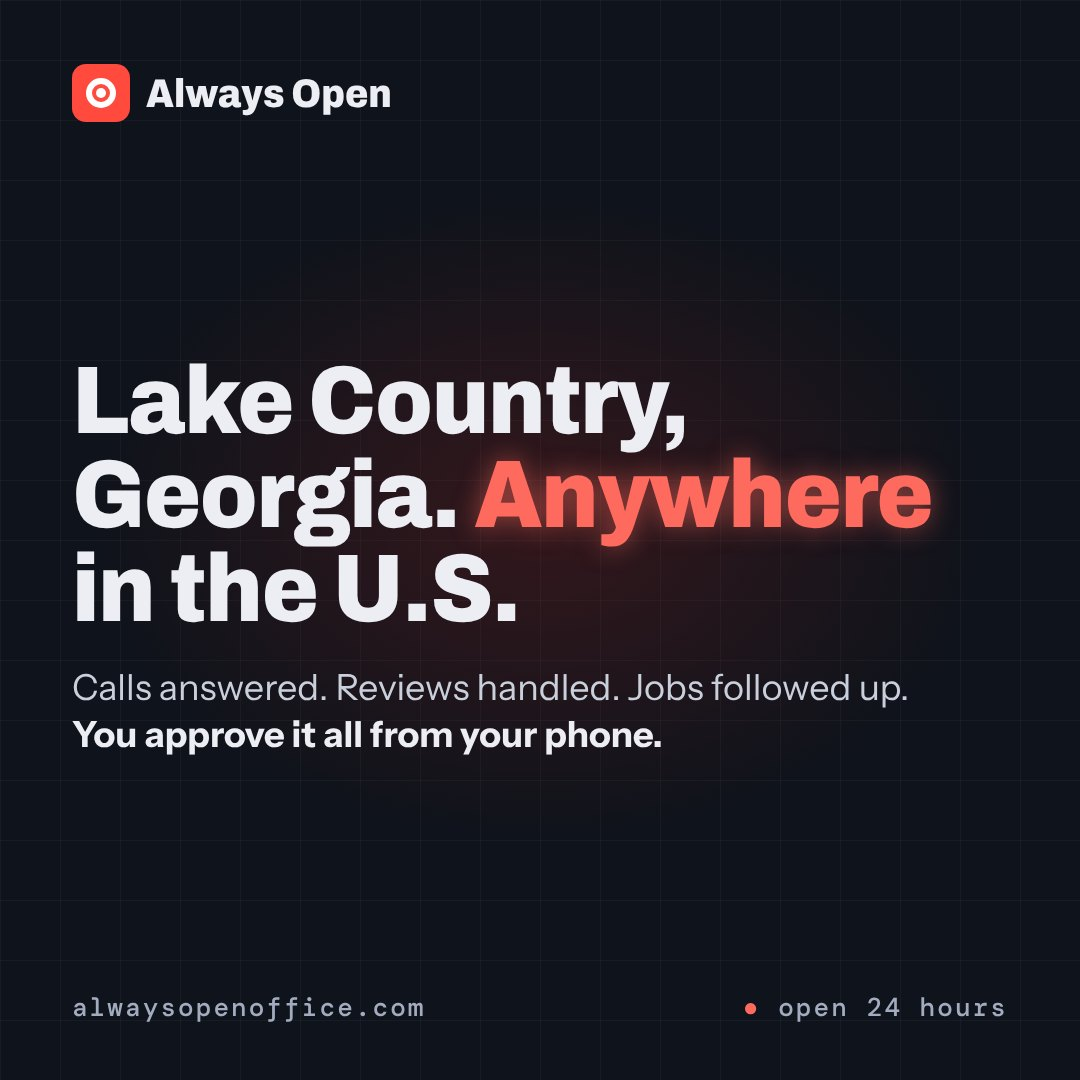
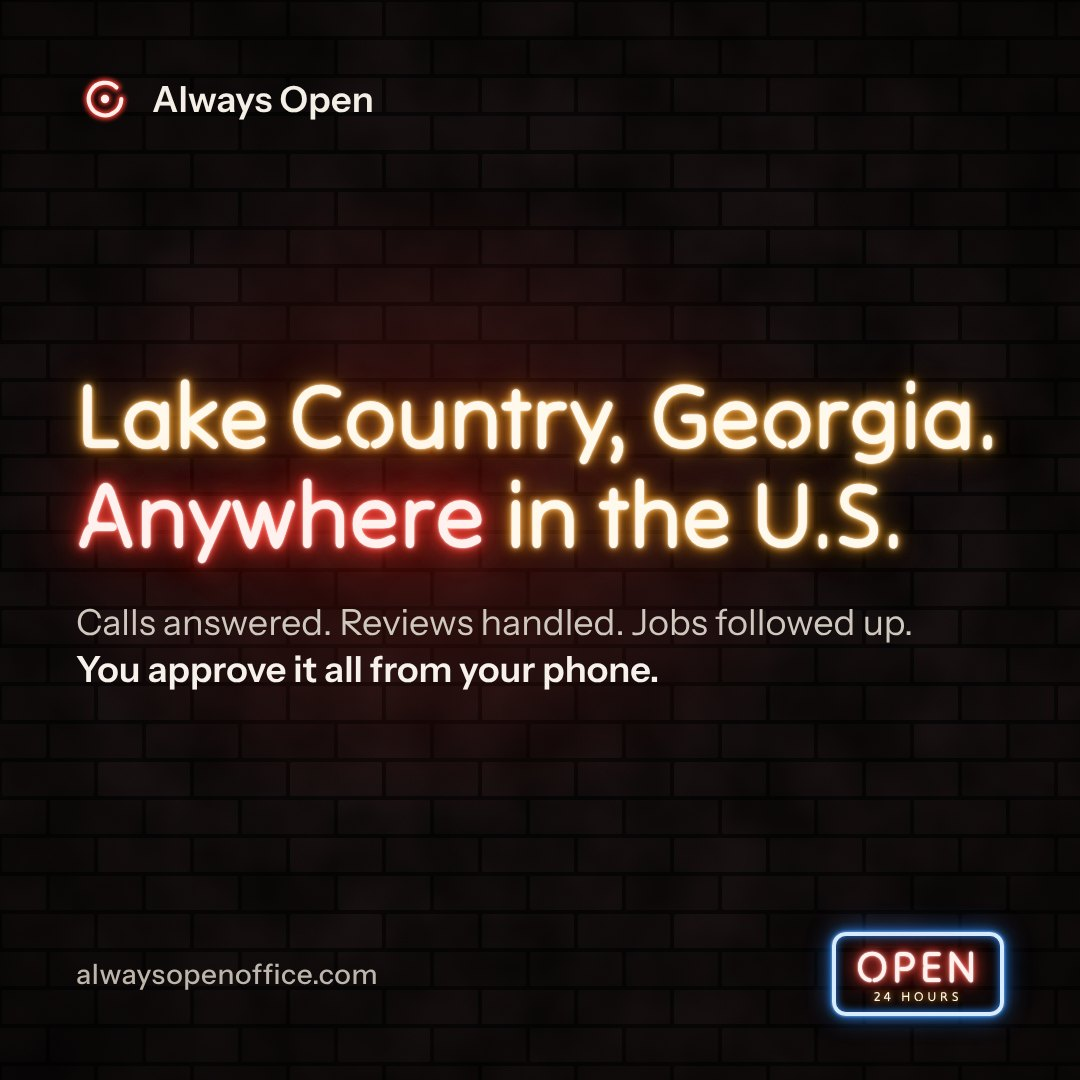
Own-Page posts cover every feature nobody else has, on neon-sign cards
- Six new topics in the Mon/Wed/Fri rotation: the three-day check-in, Fill my week, Storm Desk, hand-offs
  between businesses, call-backs at a set time, and what AI assistants say about you, each with an accurate
  fallback caption. The caption instructions now name these features too.
- All twelve cards redrawn in the neon-sign style of the new Facebook cover (tools/social/card.html, make.mjs).
- Test: every theme has its card on the site and a fallback caption.

Claude-Session: https://claude.ai/code/session_013ApArkW5ySxC8yc6yFKH28

diff --git a/src/social.js b/src/social.js
@@ -17,16 +17,28 @@ export const POST_HOUR = 10;          // Eastern
 export const THEMES = [
   { name: 'missed', card: 'missed.jpg', about: 'The call the business missed. Most callers who reach voicemail hang up and call the next name on Google. Max answers every call, day or night, and texts the owner the lead.',
     fallback: 'Most callers who get voicemail don’t leave a message. They call the next name on Google. Max picks up every call to your business, day or night, and texts you who called and what they need. alwaysopenoffice.com' },
-  { name: 'caught', card: 'caught.jpg', about: 'What Max caught this week for the businesses we work for. Use the numbers given, nothing else.',
-    fallback: '' },   // only posted with real numbers; otherwise the next theme runs
+  { name: 'checkin', card: 'checkin.jpg', about: 'The three-day check-in. Three days after a job, Max calls the customer to ask whether the work held up. Pressing 1 turns into a review request; pressing 2 reaches the owner first, so they can fix it before it becomes a bad review.',
+    fallback: 'Three days after the job, Max calls your customer: did it hold up? A yes turns into a review request. A no comes straight to you, so you can make it right before it turns into a one-star review. alwaysopenoffice.com' },
   { name: 'grade', card: 'grade.jpg', about: 'The free grade: type a business name and town at alwaysopenoffice.com and the grade shows in a few seconds (reviews, Google profile, hours, website). No sign-up.',
     fallback: 'How does your business look to someone searching Google right now? Type your business name and town at alwaysopenoffice.com and your grade shows up in a few seconds. Free, no sign-up, no call from us.' },
+  { name: 'fillweek', card: 'fillweek.jpg', about: 'Fill my week. When a day on the owner\'s calendar is wide open, past customers who are due for service, and said yes to texts, get offered the open time by text. The first yes is booked on the calendar.',
+    fallback: 'Got a wide-open Thursday? Always Open texts past customers who are due for service, and said yes to texts, and offers them the time. The first yes goes on your calendar. alwaysopenoffice.com' },
+  { name: 'caught', card: 'caught.jpg', about: 'What Max caught this week for the businesses we work for. Use the numbers given, nothing else.',
+    fallback: '' },   // only posted with real numbers; otherwise the next theme runs
+  { name: 'storm', card: 'storm.jpg', about: 'Storm Desk. When the National Weather Service issues a warning for the business\'s county, a storm-day post is drafted that minute. The owner approves it from their phone and it goes up on their Google profile while people are searching.',
+    fallback: 'When a storm warning hits your county, Always Open drafts a storm-day post for your business that same minute. Approve it from wherever you are, and it goes up on your Google profile while people are searching. alwaysopenoffice.com' },
   { name: 'tip', card: 'tip.jpg', about: 'One practical tip for a small business owner, given below. Just the tip, in plain words, and one line on how Always Open does it for them.',
     fallback: 'Reply to every review within a day, the good ones too. People read the replies as closely as the reviews, and Google notices a business that answers. Always Open drafts every reply for you to approve from your phone. alwaysopenoffice.com' },
+  { name: 'handoff', card: 'handoff.jpg', about: 'Hand-offs between businesses. When a caller needs work the business does not do, Max offers to put them through to a nearby business on Always Open, and that business can send work back.',
+    fallback: 'A caller needs work you don\u2019t do? Max offers to put them through to a nearby business on Always Open, and theirs can send work back to you. The caller gets helped either way. alwaysopenoffice.com' },
   { name: 'local', card: 'local.jpg', about: 'Always Open is based in Lake Country, Georgia (Eatonton and Milledgeville) and works with businesses anywhere in the U.S. Everything is approved by the owner from their phone; nothing goes out in their name without their OK.',
     fallback: 'We’re a small company in Lake Country, Georgia, working for plumbers, HVAC companies, salons, agencies and shops anywhere in the U.S. Calls answered, reviews handled, jobs followed up. You approve it all from your phone. alwaysopenoffice.com' },
+  { name: 'callback', card: 'callback.jpg', about: 'Call-backs with a time on them. Instead of "someone will call you," Max books a call-back time from the owner\'s calendar, and if it slips, calls the customer to set a new one.',
+    fallback: 'No more \u201csomeone will call you back.\u201d Max books a real call-back time from your calendar, like 4:15 today. If it slips, he calls the customer to set a new one. alwaysopenoffice.com' },
   { name: 'max', card: 'max.jpg', about: 'Meet Max, the phone line. Anyone can call (706) 460-2226 right now and hear how Max answers for a business. Dare them to.',
-    fallback: 'Want to hear what your callers would get? Call Max. We dare you. (706) 460-2226. He answers for businesses like yours day and night, takes the details, and texts the owner. alwaysopenoffice.com' }
+    fallback: 'Want to hear what your callers would get? Call Max. We dare you. (706) 460-2226. He answers for businesses like yours day and night, takes the details, and texts the owner. alwaysopenoffice.com' },
+  { name: 'assistants', card: 'assistants.jpg', about: 'What AI assistants say about the business. More customers ask an answer assistant who to call. Once a month Always Open asks them about each business it works for and fixes whatever they get wrong at the source, such as an old phone number on a listing site.',
+    fallback: 'More customers ask an AI assistant who to call. Does it give the right number for your business? Once a month we ask them about you, and fix whatever they get wrong at the source. alwaysopenoffice.com' }
 ];
 export const TIPS = [
   'Reply to every review within a day, the good ones too. People read the replies as closely as the reviews.',
@@ -77,7 +89,7 @@ export function caughtFallback(n) {
   return 'This week Max answered ' + w(n.calls, 'call', 'calls') + ' for the businesses we work for' + (n.after ? ', ' + w(n.after, 'of them', 'of them') + ' after hours or on the weekend' : '') + (n.leads ? ', and passed on ' + w(n.leads, 'new lead', 'new leads') : '') + (n.booked ? ' with ' + w(n.booked, 'job booked', 'jobs booked') : '') + '. Every one of those callers heard a real answer instead of voicemail. alwaysopenoffice.com';
 }
 
-const SYS = 'You write the Facebook and Instagram caption for Always Open, a small company in Lake Country, Georgia that answers phones for small businesses (Max, its AI phone line, takes the call and texts the owner), replies to their reviews, keeps their Google profile current and follows up on jobs. The owner approves everything from their phone. ' +
+const SYS = 'You write the Facebook and Instagram caption for Always Open, a small company in Lake Country, Georgia that answers phones for small businesses (Max, its AI phone line, takes the call and texts the owner), replies to their reviews, keeps their Google profile current and follows up on jobs. It also calls customers three days after a job, offers open days to past customers, drafts storm-day posts, books call-backs at set times, passes callers to nearby member businesses and checks what AI assistants say about each business. The owner approves everything from their phone. ' +
   'Return only the caption: two to four short sentences, plain words, warm and direct, written to a small business owner. No hype, no emoji, no hashtags, no exclamation marks, no quotes around it, no "we" claims that are not in the notes. Use only the numbers in the notes and say nothing about results we did not measure. End with alwaysopenoffice.com or, when the notes give it, the phone number.';
 export async function writeCaption(env, theme, notes) {
   if (!env.ANTHROPIC_API_KEY) return '';

diff --git a/tools/social/card.html b/tools/social/card.html
@@ -1,25 +1,50 @@
 <!doctype html><html><head><meta charset="utf-8"><style>
-@font-face{font-family:"Archivo";src:url("FONTS/Archivo.ttf");font-weight:100 900;font-stretch:62% 125%}
+@font-face{font-family:"Tilt Neon";src:url("FONTS/TiltNeon.ttf")}
 @font-face{font-family:"Instrument Sans";src:url("FONTS/InstrumentSans.ttf");font-weight:400 700}
-@font-face{font-family:"DM Mono";src:url("FONTS/DMMono-Medium.ttf");font-weight:500}
-body{margin:0;width:1080px;height:1080px;background:#0F131B;color:#ECEEF3;font-family:"Instrument Sans",system-ui,sans-serif;display:flex;flex-direction:column;justify-content:space-between;padding:64px 72px 56px;box-sizing:border-box;
- background-image:radial-gradient(640px 460px at 50% 48%,rgba(217,45,32,.18),transparent 70%),linear-gradient(rgba(255,255,255,.035) 1px,transparent 1px),linear-gradient(90deg,rgba(255,255,255,.035) 1px,transparent 1px);background-size:auto,60px 60px,60px 60px}
-.wm{display:flex;align-items:center;gap:16px;font:850 40px "Archivo";font-stretch:90%}
-.wm i{width:58px;height:58px;border-radius:14px;background:#FF4A3D;display:grid;place-items:center}
-.wm i b{width:30px;height:30px;border:6px solid #fff;border-radius:50%;box-sizing:border-box;position:relative}
-.wm i b:after{content:"";position:absolute;inset:4px;background:#fff;border-radius:50%}
-.mid{display:grid;gap:28px;justify-items:start}
-h1{margin:0;font:850 96px/.98 "Archivo";font-stretch:92%;letter-spacing:-.014em;max-width:940px}
-h1 em{font-style:normal;color:#FF6A5E;text-shadow:0 0 26px rgba(255,106,94,.55)}
-.sub{font-size:36px;line-height:1.3;color:#C9D0DC;max-width:900px;margin:0}
-.sub b{color:#ECEEF3}
-.neon{display:grid;justify-items:center;gap:6px;padding:26px 56px 22px;border:6px solid #FF6A5E;border-radius:30px;color:#FF6A5E;box-shadow:0 0 0 2px rgba(255,106,94,.25),0 0 50px rgba(255,90,77,.45),inset 0 0 30px rgba(255,90,77,.2);justify-self:start}
-.neon span{font:500 26px "DM Mono";letter-spacing:.3em;color:#FFB3AC}
-.neon b{font:850 88px/1 "Archivo";letter-spacing:.01em}
-.foot{display:flex;justify-content:space-between;align-items:center;font:500 26px "DM Mono";letter-spacing:.08em;color:#A3ACBF}
-.foot em{font-style:normal;color:#FF6A5E}
+html,body{margin:0}
+body{width:1080px;height:1080px;overflow:hidden;position:relative;background:#0c0a0b;color:#ECEEF3;font-family:"Instrument Sans",system-ui,sans-serif}
+svg.wall{position:absolute;inset:0}
+.spill{position:absolute;inset:0;background:radial-gradient(620px 460px at 40% 46%,rgba(255,52,36,.20),transparent 70%),radial-gradient(1000px 900px at 50% 50%,transparent 45%,rgba(0,0,0,.7) 100%)}
+.page{position:absolute;inset:0;padding:70px 76px 64px;box-sizing:border-box;display:flex;flex-direction:column;justify-content:space-between}
+.wm{display:flex;align-items:center;gap:18px;font:600 36px "Instrument Sans";color:#f3eee6;letter-spacing:.005em}
+.wm svg{flex:none}
+.mid{display:grid;gap:34px;justify-items:start}
+h1{margin:0;font:400 92px/1.08 "Tilt Neon";color:#fff8ec;max-width:930px;text-wrap:balance;
+ text-shadow:0 0 2px #fff,0 0 6px #ffc46b,0 0 14px #ff9f1c,0 0 32px rgba(255,159,28,.5)}
+h1 em{font-style:normal;color:#fff1ee;text-shadow:0 0 2px #fff,0 0 6px #ff7468,0 0 14px #ff3b2f,0 0 30px #ff3b2f,0 0 60px rgba(255,36,20,.55)}
+.sub{font-size:36px;line-height:1.32;color:#cfc8bf;max-width:900px;margin:0}
+.sub b{color:#f6f1ea;font-weight:600}
+.box{justify-self:start;display:grid;justify-items:center;gap:6px;padding:24px 54px 22px;border:6px solid #d7ecff;border-radius:30px;
+ box-shadow:0 0 4px #7cc0ff,0 0 14px #2f8cff,0 0 34px #2f8cff,0 0 60px rgba(47,140,255,.4),inset 0 0 6px #7cc0ff,inset 0 0 18px #2f8cff}
+.box span{font:600 26px "Instrument Sans";letter-spacing:.2em;color:#e9f4ff}
+.box b{font:400 88px/1 "Tilt Neon";color:#fff1ee;text-shadow:0 0 2px #fff,0 0 6px #ff7468,0 0 14px #ff3b2f,0 0 30px #ff3b2f}
+.foot{display:flex;justify-content:space-between;align-items:center;font:500 28px "Instrument Sans";color:#bdb5ab;letter-spacing:.02em}
+.mini{display:grid;justify-items:center;padding:8px 20px 7px;border:4px solid #d7ecff;border-radius:14px;
+ box-shadow:0 0 3px #7cc0ff,0 0 10px #2f8cff,0 0 24px rgba(47,140,255,.6),inset 0 0 8px #2f8cff}
+.mini b{font:400 44px/1 "Tilt Neon";letter-spacing:.08em;color:#fff1ee;text-shadow:0 0 2px #fff,0 0 6px #ff7468,0 0 14px #ff3b2f,0 0 26px #ff3b2f}
+.mini span{font:400 13px "Tilt Neon";letter-spacing:.3em;color:#fff8ec;text-shadow:0 0 6px #ff9f1c}
 </style></head><body>
-<div class="wm"><i><b></b></i>Always Open</div>
-<div class="mid">HEADLINE SUB EXTRA</div>
-<div class="foot"><span>alwaysopenoffice.com</span><span><em>●</em> open 24 hours</span></div>
+<svg class="wall" width="1080" height="1080" xmlns="http://www.w3.org/2000/svg">
+ <defs>
+  <pattern id="b" width="192" height="76" patternUnits="userSpaceOnUse">
+   <rect width="192" height="76" fill="#120e0f"/>
+   <rect x="2" y="2" width="92" height="34" rx="2" fill="#2b1e1f"/><rect x="98" y="2" width="92" height="34" rx="2" fill="#2f2122"/>
+   <rect x="-46" y="40" width="92" height="34" rx="2" fill="#2d2021"/><rect x="50" y="40" width="92" height="34" rx="2" fill="#281c1d"/><rect x="146" y="40" width="92" height="34" rx="2" fill="#2d2021"/>
+  </pattern>
+  <filter id="n"><feTurbulence type="fractalNoise" baseFrequency=".9" numOctaves="2" seed="4"/><feColorMatrix values="0 0 0 0 0  0 0 0 0 0  0 0 0 0 0  0 0 0 .55 0"/></filter>
+  <filter id="m"><feTurbulence type="fractalNoise" baseFrequency=".012" numOctaves="3" seed="9"/><feColorMatrix values="0 0 0 0 0  0 0 0 0 0  0 0 0 0 0  0 0 0 .9 -.25"/></filter>
+ </defs>
+ <rect width="1080" height="1080" fill="url(#b)"/>
+ <rect width="1080" height="1080" filter="url(#n)" opacity=".5"/>
+ <rect width="1080" height="1080" filter="url(#m)"/>
+ <rect width="1080" height="1080" fill="#000" opacity=".42"/>
+</svg>
+<div class="spill"></div>
+<div class="page">
+ <div class="wm"><svg width="58" height="58" viewBox="0 0 64 64"><defs><filter id="gl" x="-50%" y="-50%" width="200%" height="200%"><feGaussianBlur stdDeviation="2.4"/></filter></defs>
+  <g fill="none" stroke-linecap="round"><path d="M44.7 19.3A18 18 0 1 0 50 32" stroke="#ff3b2f" stroke-width="9" filter="url(#gl)"/><path d="M44.7 19.3A18 18 0 1 0 50 32" stroke="#fff0ee" stroke-width="4.5"/></g>
+  <circle cx="32" cy="32" r="6.5" fill="#ff3b2f" filter="url(#gl)"/><circle cx="32" cy="32" r="4.6" fill="#fff0ee"/></svg>Always Open</div>
+ <div class="mid">HEADLINE SUB EXTRA</div>
+ <div class="foot"><span>alwaysopenoffice.com</span><div class="mini"><b>OPEN</b><span>24 HOURS</span></div></div>
+</div>
 </body></html>

diff --git a/test/social.test.js b/test/social.test.js
@@ -64,17 +64,26 @@ test('Claude down: our own words go up; Facebook down: one alert and the day is 
   assert.equal((await db.prepare('SELECT text FROM social_posts').first()).text, THEMES[0].fallback);
   world.fbDown = true;
   const r2 = await socialCron(env, Date.parse('2026-11-04T15:15:00Z'), k.h);   // Wednesday
-  assert.equal(r2.posted, false); assert.equal(r2.theme, 'grade', 'no real calls yet, so the numbers post gives way to the next theme');
+  assert.equal(r2.posted, false); assert.equal(r2.theme, 'checkin', 'the second post is the three-day check-in');
   assert.match(r2.result, /^fb:fail \(Invalid OAuth access token\) \(own words\)$/);
   assert.equal(k.alerts.length, 1); assert.equal(k.alerts[0].type, 'social'); assert.match(k.alerts[0].detail, /did not go up: fb:fail/);
 });
 
 test('the rotation and the week numbers', async () => {
   assert.equal(pickTheme(0).name, 'missed');
-  assert.equal(pickTheme(1, { calls: 2 }).name, 'grade', 'too few calls to say anything');
-  assert.equal(pickTheme(1, { calls: 12 }).name, 'caught');
-  assert.equal(pickTheme(7, { calls: 12 }).name, 'caught');
-  assert.equal(pickTheme(5).name, 'max');
+  assert.equal(pickTheme(1).name, 'checkin');
+  assert.equal(pickTheme(4, { calls: 2 }).name, 'storm', 'too few calls to say anything');
+  assert.equal(pickTheme(4, { calls: 12 }).name, 'caught');
+  assert.equal(pickTheme(16, { calls: 12 }).name, 'caught');
+  assert.equal(pickTheme(10).name, 'max');
+  // Every theme has its card on the site and a caption to fall back on (only 'caught' waits for real numbers).
+  const fs = await import('node:fs');
+  for (const th of THEMES) {
+    assert.ok(fs.existsSync(new URL('../public/social/' + th.card, import.meta.url)), th.card);
+    assert.ok(th.about.length > 40, th.name);
+    if (th.name !== 'caught') assert.match(th.fallback, /alwaysopenoffice\.com|460-2226/, th.name);
+  }
+  assert.equal(new Set(THEMES.map(th => th.name)).size, 12);
   const db = makeDB(); const env = { DB: db };
   await db.prepare("INSERT INTO app_clients (client_id, code_hash, business, active) VALUES ('c1', 'h1', 'Sinclair Plumbing', 1)").run();
   const now = Date.parse('2026-11-02T15:15:00Z');
